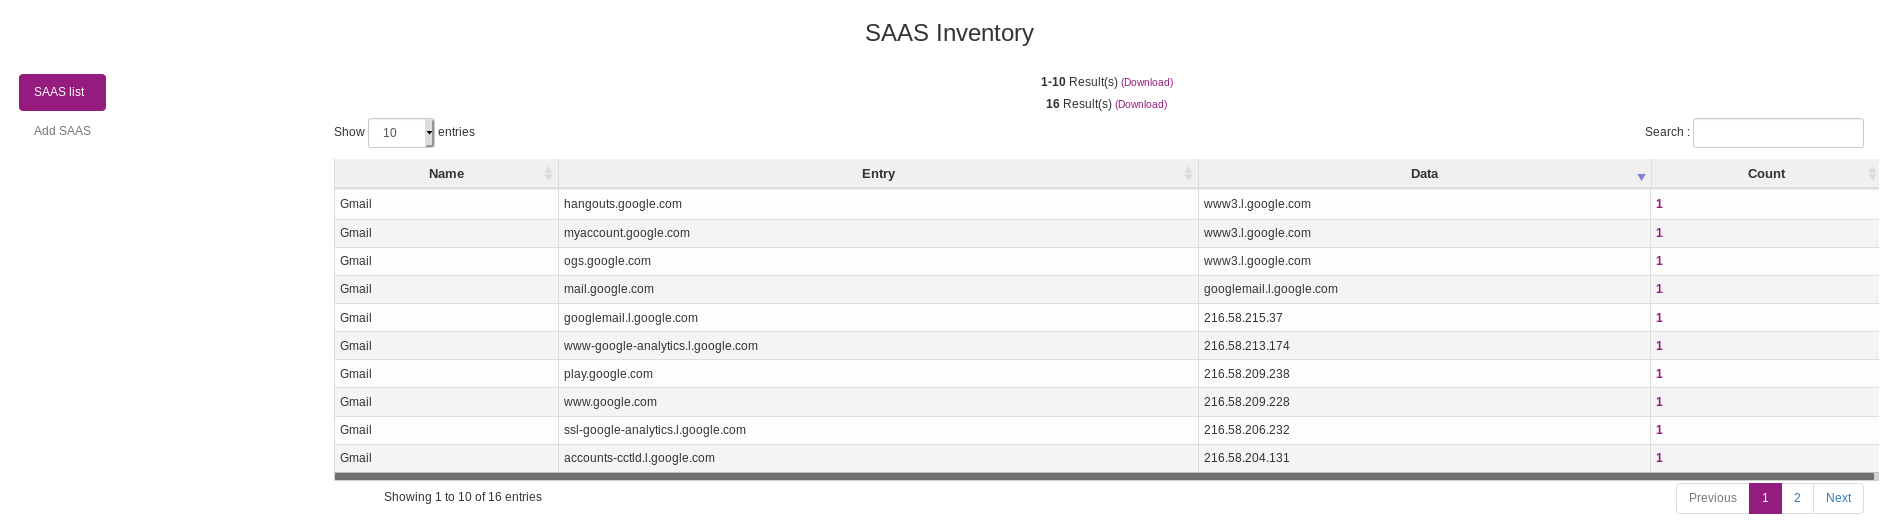
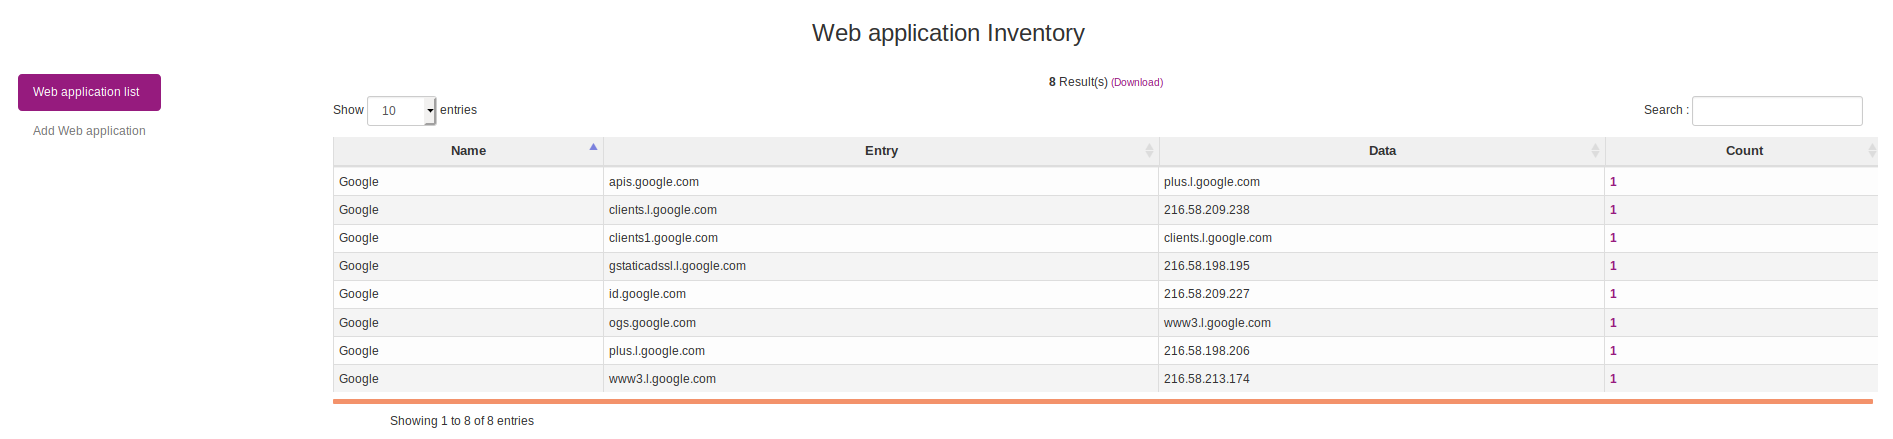
Change SAAS name

diff --git a/english/04.Management-console-and-its-advanced-features/Managing-SAAS-inventory.md b/english/04.Management-console-and-its-advanced-features/Managing-SAAS-inventory.md
@@ -1,18 +1,18 @@
-# Managing SAAS Inventory
+# Managing Web application Inventory
 
 ## Introduction
 
-SAAS (Software as a Service) Inventory feature has been added in 2.7 release.
+Web application Inventory feature has been added in 2.7 release.
 
 At the moment, this feature is only available for windows agent. Its goal is to inventory web applications used on a computer or by a user. OCSInventory will look at the DNS cache of the windows machine to see which web site has been reached in a given amount of time. 
 
-This inventory feature is installed as a plugin on the Windows Agent (by default in "C:\Programs files\OCS Inventory Agent\Plugins") and is named "Saas.ps1". Thus, removing this file will prevent SAAS inventory from working.
+This inventory feature is installed as a plugin on the Windows Agent (by default in "C:\Programs files\OCS Inventory Agent\Plugins") and is named "Saas.ps1". Thus, removing this file will prevent Web application inventory from working.
 
-SAAS Inventory is working only with agent 2.6.0.0 and newer.
+Web application Inventory is working only with agent 2.6.0.0 and newer.
 
-## Enable SAAS Inventory 
+## Enable Web application Inventory 
 
-To activate SAAS Inventory, go to ```Configuration > General configuration```, and click on _Inventory_ entry in left navigation pane. At the bottom of the page click on _ON_ for **INVENTORY_SAAS_ENABLED**.
+To activate Web application Inventory, go to ```Configuration > General configuration```, and click on _Inventory_ entry in left navigation pane. At the bottom of the page click on _ON_ for **INVENTORY_SAAS_ENABLED**.
 
 ![saas enabled](../../img/server/reports/SAAS_activate.png)
 
@@ -20,26 +20,26 @@ To activate SAAS Inventory, go to ```Configuration > General configuration```, a
 
 Since we are using the DNS cache of the windows machine, all the DNS entries are retrieved by the agent. To solve this problem, we implemented a whitelist which allow to filter the domain names to inventory.
 
-To add a new domain go to ```Inventory > SAAS Inventory``` and click on _Add SAAS_ in left menu.
+To add a new domain go to ```Inventory > Web application Inventory``` and click on _Add Web application_ in left menu.
 
 ![saas menu](../../img/server/reports/SAAS_menu.png)
 
-In order, enter the name that corresponds to the SAAS you want to register and its associated domain. After, click on _OK_.   
+In order, enter the name that corresponds to the Web application you want to register and its associated domain. After, click on _OK_.   
 
 ![saas register](../../img/server/reports/SAAS_add.png)
 
 
 ## Show inventory results
 
-In the case SAAS Inventory is enabled and configured, you will have to wait for the agent to send its inventory or trigger one manually.
+In the case Web application Inventory is enabled and configured, you will have to wait for the agent to send its inventory or trigger one manually.
 
 ### On a global reporting
 
-To display the inventoried data, go to ```Inventory > SAAS Inventory``` and click on _SAAS list_ in left menu.
+To display the inventoried data, go to ```Inventory > Web application Inventory``` and click on _Web application list_ in left menu.
 
 You will find below the displayed informations :
 
-+ Name : SAAS name of the matching entry.
++ Name : Web application name of the matching entry.
 + Entry : Associated domain.
 + Data : IP address associated to the domain.
 + Count : Number of machine matching this entry.
@@ -50,6 +50,6 @@ When you click on the count number, you will be redirected to a search reporting
 
 ### On computer details
 
-Go to computer details page and click on _Software_ in left navigation pane. Below software table, the SAAS Inventory table list all matching entries for this machine.
+Go to computer details page and click on _Software_ in left navigation pane. Below software table, the Web application Inventory table list all matching entries for this machine.
 
 ![saas computer details](../../img/server/reports/SAAS_computer_detail.png)

diff --git a/english/index.md b/english/index.md
@@ -31,7 +31,7 @@ To make it easier to read, the OCS Inventory NG documentation has been divided i
 * [Managing users profiles of the web interface](04.Management-console-and-its-advanced-features/Managing-users-profiles-of-the-web-interface.md)
 * [Managing administrative data](04.Management-console-and-its-advanced-features/Managing-administrative-data.md)
 * [Managing CVE-search reporting](04.Management-console-and-its-advanced-features/CVE-Search-management.md)
-* [Managing SAAS Inventory](04.Management-console-and-its-advanced-features/Managing-SAAS-inventory.md)
+* [Managing Web application Inventory](04.Management-console-and-its-advanced-features/Managing-SAAS-inventory.md)
 * [Synchronization between OCS and LDAP](04.Management-console-and-its-advanced-features/Synchronization-between-OCS-and-LDAP.md)
 * [Export a computer](04.Management-console-and-its-advanced-features/Export-a-computer.md)
 * [Configure mail notification](04.Management-console-and-its-advanced-features/Configure-mail-notification.md)
